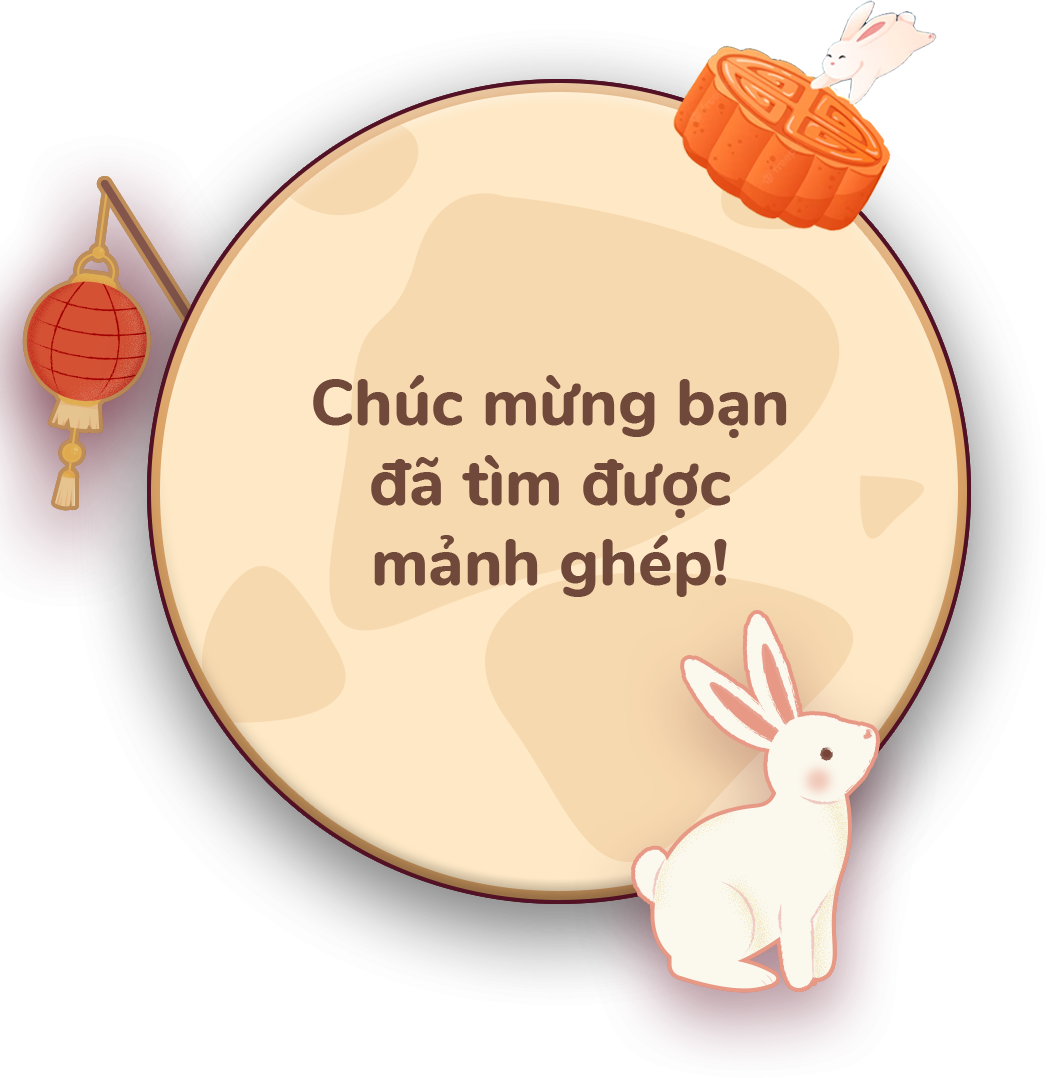
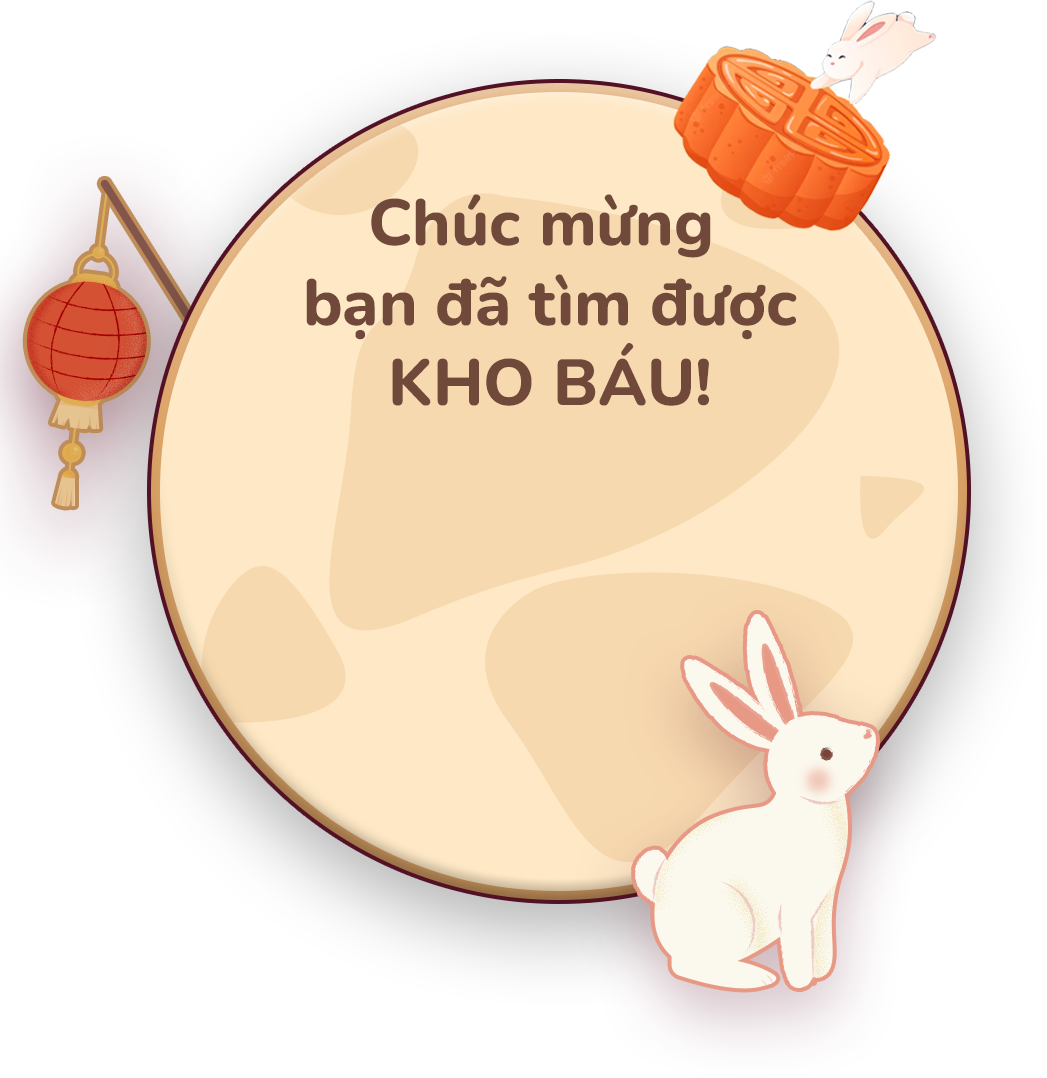
chuc mung

diff --git a/Assets/Scripts/MidAutumn/QRScanner.cs b/Assets/Scripts/MidAutumn/QRScanner.cs
@@ -17,6 +17,7 @@ public class QRScanner : MonoBehaviour {
 	public AudioSource Audio;
 	private float RestartTime;
 	public Text ListCamera;
+	public Text PlaceNum;
 	public List<GameObject> areaPieces;
 
 	public GameObject ChucmungObj;
@@ -180,6 +181,7 @@ public class QRScanner : MonoBehaviour {
 		StaticParamClass.CheckedIn = a;
 		if (!StaticParamClass.CheckedIn.Contains(StaticParamClass.CheckinPlace.ToString()))
 		{
+			PlaceNum.text = "SỐ " + StaticParamClass.CheckinPlace;
 			ChucmungObj.SetActive(true);
 			for (int i = 0; i < areaPieces.Count; i++)
 			{
@@ -238,6 +240,7 @@ public class QRScanner : MonoBehaviour {
 
 	public void GotoCheckin(int place)
 	{
+		PlaceNum.text = "SÓ " + StaticParamClass.CheckinPlace;
 		ChucmungObj.SetActive(true);
 		
 		for(int i = 0; i < areaPieces.Count; i++)
